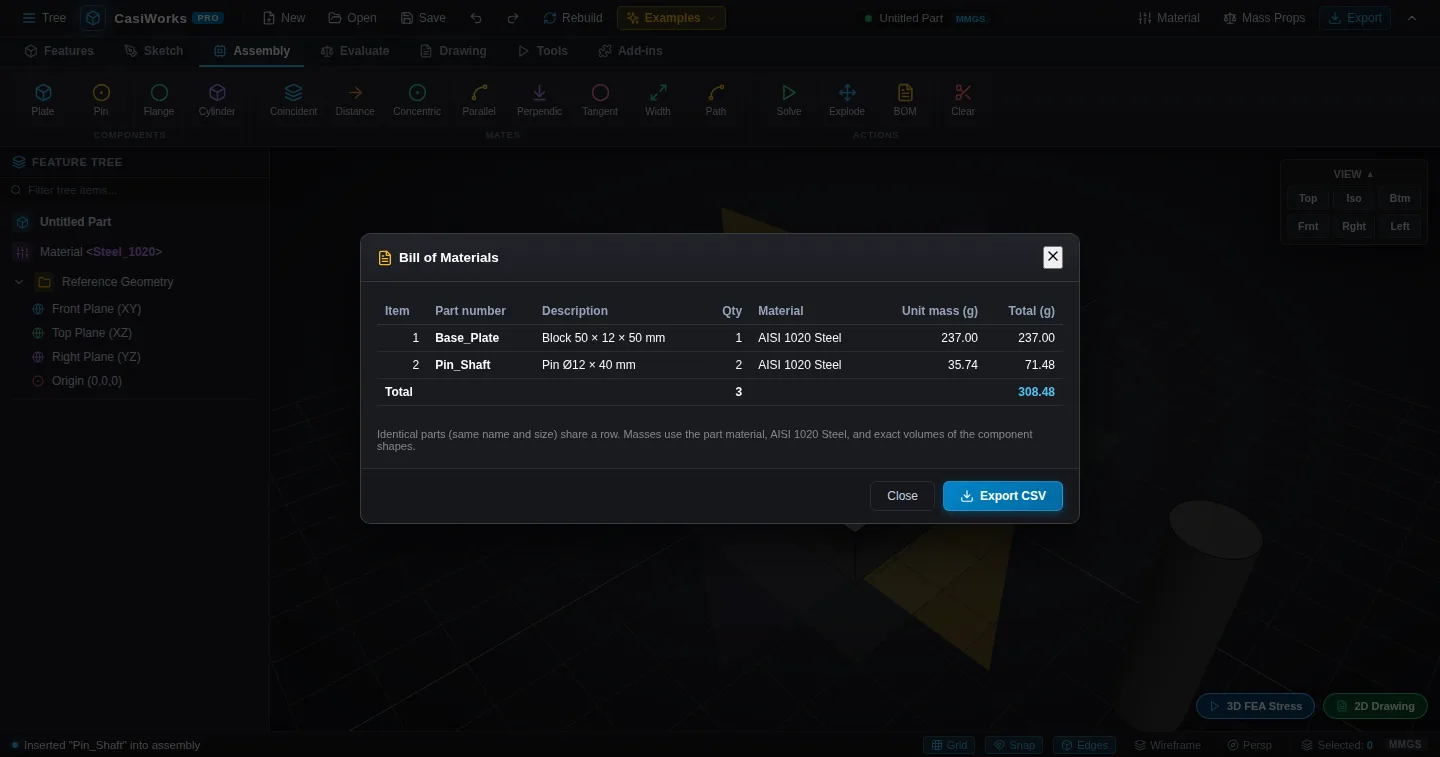
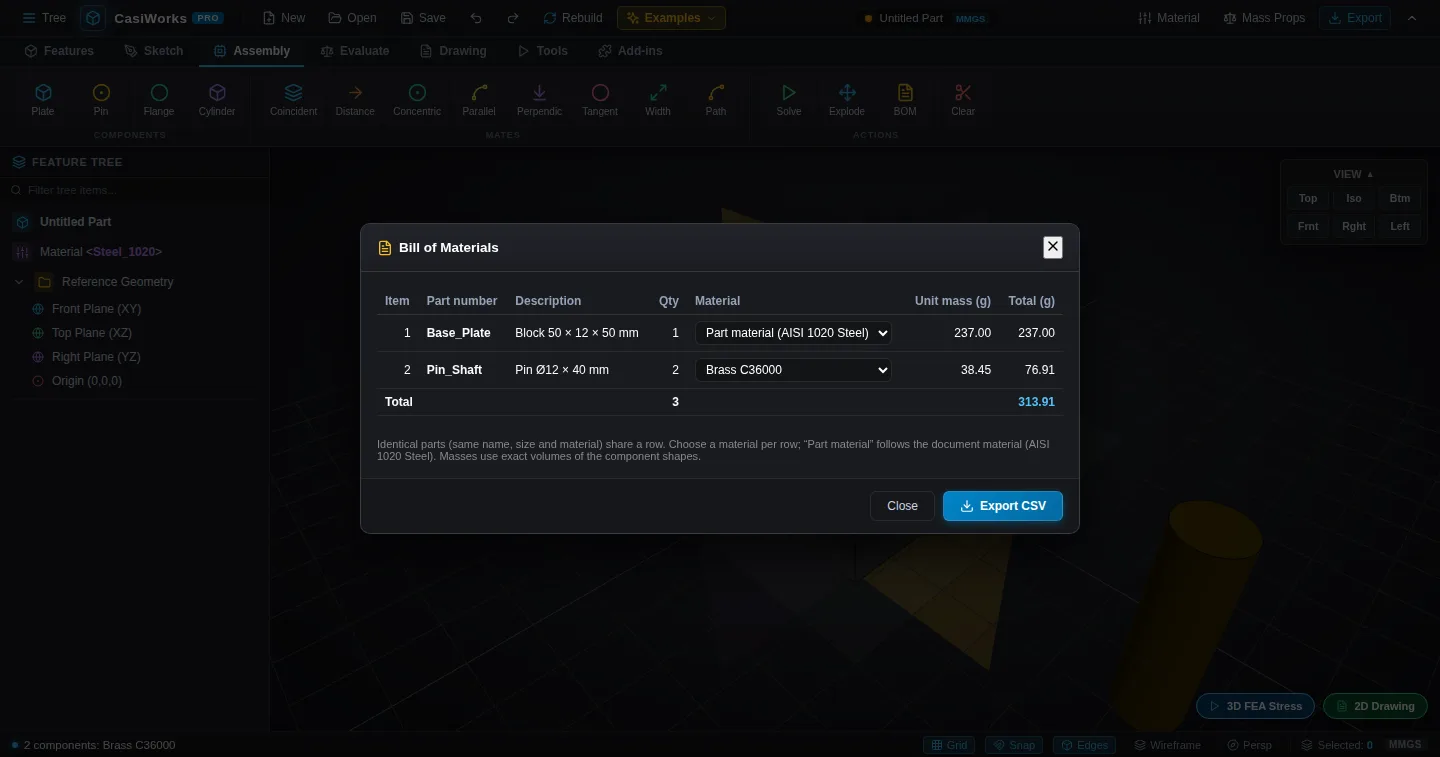
Components can have their own material; the BOM and viewport use it
Before, every assembly component used the one document material, so a
steel plate with brass pins could not be described.

- A component may carry a material key (unset = follows the document
  material). It is saved in the project file and loaded back; unknown
  keys are ignored on load.
- The BOM groups by material too and shows a material picker on each
  row. "Part material (…)" means the document material; picking one sets
  every component in the row. Masses follow.
- The viewport draws each component in its own material's colour.
- New command assembly.setMaterial { components: [ids], material: key |
  null }, validated (unknown ids or materials are refused).

Tests: per-component rows, masses, the document material change leaving
own materials alone, save/load, and back to the part material. The e2e
BOM check picks Brass for the pins in the dialog (38.45 g each) and
checks the CSV. Tutorial chapter 10 and its screenshot updated.

diff --git a/src/store/cadStore.ts b/src/store/cadStore.ts
@@ -8,7 +8,7 @@ import { immer } from 'zustand/middleware/immer';
 import type { Draft } from 'immer';
 import * as THREE from 'three';
 import { generateId } from '../utils/math.ts';
-import { TOOLS, APP_MODES, DEFAULT_SETTINGS, FEATURE_TYPES } from '../utils/constants.ts';
+import { TOOLS, APP_MODES, DEFAULT_SETTINGS, FEATURE_TYPES, MATERIALS } from '../utils/constants.ts';
 import type { AppMode, AppSettings, MateType, ToolId, ViewOrientation } from '../utils/constants.ts';
 import { assemblyManager } from '../assembly/AssemblyManager.ts';
 import type { AssemblyComponent } from '../assembly/AssemblyManager.ts';
@@ -48,6 +48,8 @@ export interface PrimitiveDims {
 export type StoreAssemblyComponent = AssemblyComponent & {
   geometryType?: PrimitiveShape;
   dimensions?: PrimitiveDims;
+  /** Material key (MATERIALS); unset means the document material. */
+  material?: string;
 };
 
 export type AssemblyMate = ReturnType<typeof assemblyManager.addMate>;
@@ -84,6 +86,7 @@ interface SerializedComponent {
   scale: { x: number; y: number; z: number };
   geometryType: PrimitiveShape;
   dimensions: PrimitiveDims;
+  material?: string;
 }
 
 /** Something selected in the viewport or tree. */
@@ -262,6 +265,8 @@ export interface CADActions {
   removeAssemblyMate(mateId: string): void;
   solveAssembly(): void;
   clearAssembly(): void;
+  /** Give components their own material (a MATERIALS key), or null to use the document material again. */
+  setComponentMaterial(componentIds: string[], material: string | null): void;
   setExplodedView(settings: ExplodedViewSettings | null): void;
   setDrawingOptions(options: Partial<DrawingOptions>): void;
 
@@ -870,6 +875,19 @@ export const useCADStore = create<CADStore>()(
         : `Mates not satisfied — they may conflict (largest error: ${(res?.error ?? 0).toFixed(3)})`;
     }),
 
+    setComponentMaterial: (componentIds, material) => set(state => {
+      const ids = new Set(componentIds);
+      const changed = assemblyManager.components.filter(c => ids.has(c.id)) as StoreAssemblyComponent[];
+      if (changed.length === 0) return;
+      for (const c of changed) {
+        if (material) c.material = material; else delete c.material;
+      }
+      state.assemblyComponents = [...assemblyManager.components] as Draft<StoreAssemblyComponent>[];
+      state.isModified = true;
+      const what = changed.length === 1 ? `"${changed[0].name}"` : `${changed.length} components`;
+      state.statusMessage = material ? `${what}: ${MATERIALS[material]?.name ?? material}` : `${what}: part material`;
+    }),
+
     clearAssembly: () => set(state => {
       assemblyManager.components = [];
       assemblyManager.mates = [];
@@ -902,6 +920,7 @@ export const useCADStore = create<CADStore>()(
         scale: { x: comp.scale.x, y: comp.scale.y, z: comp.scale.z },
         geometryType: comp.geometryType || 'box',
         dimensions: comp.dimensions || {},
+        ...(comp.material ? { material: comp.material } : {}),
       }));
 
       const project: ProjectFile = {
@@ -956,6 +975,7 @@ export const useCADStore = create<CADStore>()(
             comp.id = c.id;
             comp.geometryType = shape;
             comp.dimensions = dims;
+            if (typeof c.material === 'string' && c.material in MATERIALS) comp.material = c.material;
             if (c.position) comp.position.set(c.position.x, c.position.y, c.position.z);
             if (c.quaternion) comp.quaternion.set(c.quaternion.x, c.quaternion.y, c.quaternion.z, c.quaternion.w);
             if (c.scale) comp.scale.set(c.scale.x, c.scale.y, c.scale.z);

diff --git a/tests/bom.test.ts b/tests/bom.test.ts
@@ -7,7 +7,7 @@ import { useCADStore } from '../src/store/cadStore.ts';
 import { createCommandRegistry } from '../src/commands/builtinCommands.ts';
 import type { Bom } from '../src/assembly/bom.ts';
 
-const steel = { name: 'AISI 1020 Steel', density: 7900 };
+const steel = 'Steel_1020';
 const near = (a: number, b: number, rel = 1e-9) => assert.ok(Math.abs(a - b) <= rel * Math.max(1, Math.abs(b)), `${a} ≠ ${b}`);
 
 test('BOM: identical parts share a row with their quantity; masses from exact volumes', () => {
@@ -52,5 +52,45 @@ test('BOM command: uses the document material and the components in the store', 
   assert.deepEqual(bom.rows.map(x => x.quantity), [1, 2]);
   near(bom.rows[0].unitMass, 30000 * 1e-9 * 2700);
   assert.throws(() => r.execute('assembly.exportBom'), (e: unknown) => (e as { code?: string }).code === 'NOT_AVAILABLE', 'needs the UI');
+  s().newProject();
+});
+
+test('Component materials: own material per component, grouped apart, saved with the project', () => {
+  const r = createCommandRegistry(useCADStore);
+  const s = () => useCADStore.getState();
+  s().newProject();
+  r.execute('assembly.insertPart', { name: 'Base_Plate', shape: 'box', dims: { width: 50, height: 12, depth: 50 } });
+  const pins = [r.execute('assembly.insertPart', { name: 'Pin_Shaft', shape: 'pin' }), r.execute('assembly.insertPart', { name: 'Pin_Shaft', shape: 'pin' })]
+    .map(x => (x as { componentId: string }).componentId);
+  const code = (fn: () => unknown) => { try { fn(); } catch (e) { return (e as { code?: string }).code; } return null; };
+  assert.equal(code(() => r.execute('assembly.setMaterial', { components: pins, material: 'Unobtainium' })), 'INVALID_ARGUMENT');
+  assert.equal(code(() => r.execute('assembly.setMaterial', { components: ['nope'], material: 'Brass_C36000' })), 'INVALID_ARGUMENT');
+  assert.equal(code(() => r.execute('assembly.setMaterial', { components: [], material: 'Brass_C36000' })), 'INVALID_ARGUMENT');
+
+  // One brass pin: the two pins split into two rows
+  r.execute('assembly.setMaterial', { components: [pins[0]], material: 'Brass_C36000' });
+  let bom = r.execute('assembly.bom') as Bom;
+  assert.deepEqual(bom.rows.map(x => [x.partNumber, x.material, x.quantity, x.inherited]),
+    [['Base_Plate', 'AISI 1020 Steel', 1, true], ['Pin_Shaft', 'Brass C36000', 1, false], ['Pin_Shaft', 'AISI 1020 Steel', 1, true]]);
+  near(bom.rows[1].unitMass, Math.PI * 36 * 40 * 1e-9 * 8500);
+  assert.match(s().statusMessage, /"Pin_Shaft": Brass C36000/);
+
+  // Both brass: one row again. The document material change leaves them brass.
+  r.execute('assembly.setMaterial', { components: pins, material: 'Brass_C36000' });
+  r.execute('model.setMaterial', { key: 'Aluminum_6061' });
+  bom = r.execute('assembly.bom') as Bom;
+  assert.deepEqual(bom.rows.map(x => [x.material, x.quantity]), [['Aluminum 6061-T6', 1], ['Brass C36000', 2]]);
+
+  // Saved and loaded with the project
+  const saved = s().saveProject();
+  s().newProject();
+  s().loadProject(saved);
+  bom = r.execute('assembly.bom') as Bom;
+  assert.deepEqual(bom.rows.map(x => [x.material, x.quantity]), [['Aluminum 6061-T6', 1], ['Brass C36000', 2]], 'after reload');
+
+  // null goes back to the part material
+  r.execute('assembly.setMaterial', { components: s().assemblyComponents.map(c => c.id), material: null });
+  bom = r.execute('assembly.bom') as Bom;
+  assert.ok(bom.rows.every(x => x.inherited && x.material === 'Aluminum 6061-T6'));
   s().newProject();
 });

diff --git a/src/assembly/bom.ts b/src/assembly/bom.ts
@@ -1,15 +1,18 @@
 // CasiWorks Pro - Bill of materials for the assembly
 //
-// One row per distinct part (same name, shape and size), with its quantity.
-// Volumes are exact for the primitive shapes (not the faceted display mesh);
-// mass uses the document's material, which every component shares today.
+// One row per distinct part (same name, shape, size and material), with its
+// quantity. Volumes are exact for the primitive shapes (not the faceted display
+// mesh); mass uses each component's material, or the document's when it has none.
 import type { PrimitiveDims, PrimitiveShape } from '../store/cadStore.ts';
+import { MATERIALS } from '../utils/constants.ts';
 
 export interface BomComponent {
   id: string;
   name: string;
   geometryType?: PrimitiveShape;
   dimensions?: PrimitiveDims;
+  /** Material key; unset means the document material. */
+  material?: string;
 }
 
 export interface BomRow {
@@ -17,7 +20,12 @@ export interface BomRow {
   partNumber: string;
   description: string;
   quantity: number;
+  /** Material name, as shown. */
   material: string;
+  /** Material key (MATERIALS). */
+  materialKey: string;
+  /** True when it is the document material (the component has none of its own). */
+  inherited: boolean;
   /** mm³ per part. */
   unitVolume: number;
   /** kg per part. */
@@ -32,6 +40,7 @@ export interface Bom {
   totalQuantity: number;
   /** kg */
   totalMass: number;
+  /** Document material name (what components without their own use). */
   material: string;
 }
 
@@ -55,14 +64,19 @@ function shapeSize(shape: PrimitiveShape, dims: PrimitiveDims): { description: s
   }
 }
 
+const materialOf = (key: string) => MATERIALS[key] ?? MATERIALS.Steel_1020;
+
 /** The bill of materials: parts in the order they were first inserted. */
-export function buildBom(components: BomComponent[], material: { name: string; density: number }): Bom {
+export function buildBom(components: BomComponent[], documentMaterial: string): Bom {
   const rows = new Map<string, BomRow>();
   for (const c of components) {
     const shape = c.geometryType ?? 'box';
     const dims = c.dimensions ?? {};
     const { description, volume } = shapeSize(shape, dims);
-    const key = `${c.name}\u0000${description}`;
+    const own = c.material && c.material in MATERIALS ? c.material : null;
+    const materialKey = own ?? (documentMaterial in MATERIALS ? documentMaterial : 'Steel_1020');
+    const material = materialOf(materialKey);
+    const key = `${c.name}\u0000${description}\u0000${materialKey}\u0000${own ? 'own' : 'doc'}`;
     const row = rows.get(key);
     if (row) {
       row.quantity += 1;
@@ -71,7 +85,7 @@ export function buildBom(components: BomComponent[], material: { name: string; d
     }
     const unitMass = volume * 1e-9 * material.density;
     rows.set(key, {
-      item: rows.size + 1, partNumber: c.name, description, quantity: 1, material: material.name,
+      item: rows.size + 1, partNumber: c.name, description, quantity: 1, material: material.name, materialKey, inherited: !own,
       unitVolume: volume, unitMass, totalMass: unitMass, componentIds: [c.id],
     });
   }
@@ -81,7 +95,7 @@ export function buildBom(components: BomComponent[], material: { name: string; d
     rows: list,
     totalQuantity: list.reduce((n, r) => n + r.quantity, 0),
     totalMass: list.reduce((m, r) => m + r.totalMass, 0),
-    material: material.name,
+    material: materialOf(documentMaterial).name,
   };
 }
 

diff --git a/docs/tutorial/index.html b/docs/tutorial/index.html
@@ -619,9 +619,9 @@ npm run dev</pre></div>
   <div class="callout tip"><span class="ic">💡</span><div><b class="label">Display only</b><p>The exploded view only changes what you see. Components keep their real positions and mates, so saving, solving and exporting all use the assembled positions. Each mated part moves away from its partner; parts later in the list move further.</p></div></div>
   <div class="callout tip"><span class="ic">💡</span><div><b class="label">Tip</b><p>Add the fewest mates that fix the position. Extra mates that fight each other leave a residual above zero after <b>Solve</b>, and that number tells you something is over-constrained. <b>Clear</b> removes all components and mates.</p></div></div>
   <h3>Bill of materials</h3>
-  <p>Click <b>BOM</b> in the Actions group to list the parts in the assembly. Identical parts (same name and same size) share one row with their quantity. Each row gives a description of the shape and its size, the material, and the mass of one part and of all of them. <b>Export CSV</b> saves the table for a spreadsheet or a purchasing system.</p>
-  <figure class="shot"><img loading="lazy" src="img/25b-bom.webp" alt="Bill of materials with a base plate and two pins"><figcaption>Example 10.1 with a second pin: the two pins share row 2, quantity 2.</figcaption></figure>
-  <div class="callout tip"><span class="ic">💡</span><div><b class="label">Masses</b><p>Masses use exact volumes of the component shapes and the part material chosen with <b>Material</b>. All components share that one material for now. From the console, <code>casiworks.commands.execute('assembly.bom')</code> returns the same table as data.</p></div></div>
+  <p>Click <b>BOM</b> in the Actions group to list the parts in the assembly. Identical parts (same name, size and material) share one row with their quantity. Each row gives a description of the shape and its size, the material, and the mass of one part and of all of them. Use the <b>Material</b> picker in a row to give those parts their own material. The parts change colour in the viewport, and the masses update. <b>Export CSV</b> saves the table for a spreadsheet or a purchasing system.</p>
+  <figure class="shot"><img loading="lazy" src="img/25b-bom.webp" alt="Bill of materials with a base plate and two pins"><figcaption>Example 10.1 with a second pin, both made brass: the pins share row 2, quantity 2.</figcaption></figure>
+  <div class="callout tip"><span class="ic">💡</span><div><b class="label">Masses</b><p>Masses use exact volumes of the component shapes. A component without its own material uses the part material chosen with <b>Material</b> in the top bar. Its row says <i>Part material</i>. Each component's material is saved with the project. From the console, <code>casiworks.commands.execute('assembly.bom')</code> returns the same table as data, and <code>assembly.setMaterial</code> sets materials: <code>{ components: [ids], material: 'Brass_C36000' }</code>.</p></div></div>
   <div class="exercise"><b>Exercise 10.</b> Insert a Flange and a Cylinder rod. Make them concentric, then add a Distance mate so the rod sits 15 mm above the flange.<label><input type="checkbox" data-done="ch10"> I've done this</label></div>
 </section>
 

diff --git a/src/commands/builtinCommands.ts b/src/commands/builtinCommands.ts
@@ -6,7 +6,6 @@ import { drawingFile } from '../drawings/drawingSheet.ts';
 import type { DrawingFormat } from '../drawings/drawingSheet.ts';
 import { downloadBlob } from '../utils/download.ts';
 import { bomCSV, buildBom } from '../assembly/bom.ts';
-import { materialLibrary } from '../kernel/MaterialLibrary.ts';
 import { FEATURE_TYPES, MATERIALS, TOOLS } from '../utils/constants.ts';
 import type { MateType, ToolId, ViewOrientation } from '../utils/constants.ts';
 import type { FeatureData, SketchEntity, SketchPlane } from '../types/cad.ts';
@@ -386,7 +385,21 @@ export const BUILTIN_COMMANDS: Array<Def<never>> = [
   {
     id: 'assembly.bom', label: 'Bill of materials (data)', category: 'Assembly', record: false,
     description: 'Returns { rows: [{ item, partNumber, description, quantity, material, unitVolume (mm³), unitMass, totalMass (kg), componentIds }], totalQuantity, totalMass, material }',
-    run: ({ state }) => buildBom(state().assemblyComponents, materialLibrary.getMaterial(state().activeMaterial)),
+    run: ({ state }) => buildBom(state().assemblyComponents, state().activeMaterial),
+  },
+  {
+    id: 'assembly.setMaterial', label: 'Component material', category: 'Assembly',
+    description: "args: { components: string[] (component ids), material: key such as 'Brass_C36000', or null for the part material }",
+    run: ({ state }, args: { components?: string[]; material?: string | null }) => {
+      const ids = args?.components;
+      if (!Array.isArray(ids) || ids.length === 0 || !ids.every(id => typeof id === 'string')) throw new CommandError('INVALID_ARGUMENT', 'components must be a list of component ids');
+      const known = new Set(state().assemblyComponents.map(c => c.id));
+      const missing = ids.filter(id => !known.has(id));
+      if (missing.length) throw new CommandError('INVALID_ARGUMENT', `No component with id ${missing.map(m => JSON.stringify(m)).join(', ')}`);
+      const material = args.material ?? null;
+      if (material !== null && !(material in MATERIALS)) throw new CommandError('INVALID_ARGUMENT', `Unknown material ${JSON.stringify(material)}; one of ${Object.keys(MATERIALS).join(', ')}`);
+      state().setComponentMaterial(ids, material);
+    },
   },
   { id: 'assembly.billOfMaterials', label: 'Bill of materials…', category: 'Assembly', requiresUI: true, record: false, run: ({ ui }) => ui().openDialog('bom') },
   {
@@ -395,7 +408,7 @@ export const BUILTIN_COMMANDS: Array<Def<never>> = [
       const s = state();
       if (s.assemblyComponents.length === 0) throw new CommandError('NOT_AVAILABLE', 'Insert components first: the assembly is empty');
       const filename = `${(s.documentName || 'Assembly').replace(/\s+/g, '_')}_BOM.csv`;
-      downloadBlob(bomCSV(buildBom(s.assemblyComponents, materialLibrary.getMaterial(s.activeMaterial))), filename, 'text/csv;charset=utf-8');
+      downloadBlob(bomCSV(buildBom(s.assemblyComponents, s.activeMaterial)), filename, 'text/csv;charset=utf-8');
       s.setStatus(`Bill of materials exported: ${filename}`);
       return { filename };
     },

diff --git a/src/components/dialogs/BomDialog.tsx b/src/components/dialogs/BomDialog.tsx
@@ -2,7 +2,7 @@
 import { useMemo } from 'react';
 import { X, FileText, Download } from 'lucide-react';
 import { useCADStore } from '../../store/cadStore.ts';
-import { materialLibrary } from '../../kernel/MaterialLibrary.ts';
+import { MATERIALS } from '../../utils/constants.ts';
 import { buildBom } from '../../assembly/bom.ts';
 import { runCommand } from '../../commands/index.ts';
 
@@ -16,7 +16,7 @@ const grams = (kg: number) => (kg * 1000).toLocaleString(undefined, { minimumFra
 export default function BomDialog({ isOpen, onClose }: DialogProps) {
   const components = useCADStore(s => s.assemblyComponents);
   const activeMaterial = useCADStore(s => s.activeMaterial);
-  const bom = useMemo(() => buildBom(components, materialLibrary.getMaterial(activeMaterial)), [components, activeMaterial]);
+  const bom = useMemo(() => buildBom(components, activeMaterial), [components, activeMaterial]);
 
   if (!isOpen) return null;
 
@@ -56,7 +56,18 @@ export default function BomDialog({ isOpen, onClose }: DialogProps) {
                         <td style={{ ...td, fontWeight: 600 }}>{r.partNumber}</td>
                         <td style={td}>{r.description}</td>
                         <td style={num}>{r.quantity}</td>
-                        <td style={td}>{r.material}</td>
+                        <td style={td}>
+                          <select
+                            className="bom-material property-select"
+                            value={r.inherited ? '' : r.materialKey}
+                            onChange={(e) => runCommand('assembly.setMaterial', { components: r.componentIds, material: e.target.value || null })}
+                            aria-label={`Material of ${r.partNumber}`}
+                            style={{ width: 'auto', padding: '3px 6px', fontSize: 12 }}
+                          >
+                            <option value="">Part material ({bom.material})</option>
+                            {Object.entries(MATERIALS).map(([key, m]) => <option key={key} value={key}>{m.name}</option>)}
+                          </select>
+                        </td>
                         <td style={num}>{grams(r.unitMass)}</td>
                         <td style={num}>{grams(r.totalMass)}</td>
                       </tr>
@@ -73,7 +84,7 @@ export default function BomDialog({ isOpen, onClose }: DialogProps) {
                 </table>
               </div>
               <p style={{ fontSize: 11, color: '#888', margin: '10px 0 0' }}>
-                Identical parts (same name and size) share a row. Masses use the part material, {bom.material}, and exact volumes of the component shapes.
+                Identical parts (same name, size and material) share a row. Choose a material per row; “Part material” follows the document material ({bom.material}). Masses use exact volumes of the component shapes.
               </p>
             </>
           )}

diff --git a/scripts/e2e.ts b/scripts/e2e.ts
@@ -390,11 +390,21 @@ const CHECKS: Check[] = [
       const total = await p.eval<string>(`document.querySelector('.bom-total').textContent`);
       assert(rows.length === 2 && rows[0][1] === 'Base_Plate' && rows[1][1] === 'Pin_Shaft' && rows[1][3] === '2', `rows ${JSON.stringify(rows)}`);
       assert(rows[0][5] === '237.00', `plate mass ${rows[0][5]} g (50 × 12 × 50 mm of steel = 237.00 g)`);
+      // Brass pins: the row's material picker sets both pins
+      await p.eval(`(() => {
+        const sel = document.querySelectorAll('.bom-material')[1];
+        Object.getOwnPropertyDescriptor(HTMLSelectElement.prototype, 'value').set.call(sel, 'Brass_C36000');
+        sel.dispatchEvent(new Event('change', { bubbles: true }));
+      })()`);
+      await sleep(300);
+      const brass = await p.eval<string[]>(`[...document.querySelectorAll('.bom-table tbody tr')][1].querySelectorAll('td')[5].textContent`);
+      const picked = await p.eval<string>(`document.querySelectorAll('.bom-material')[1].value`);
+      assert(picked === 'Brass_C36000' && String(brass) === '38.45', `brass pin: ${picked}, ${brass} g (Ø12 × 40 mm × 8500 kg/m³ = 38.45 g)`);
       await p.screenshot('08b-bom');
       await p.eval(CAPTURE_DOWNLOADS);
       await p.click('Export CSV', 400);
       const csv = await p.eval<string>(`window.__blobs.at(-1).text()`);
-      assert(csv.startsWith('Item,Part number,Description,Qty') && csv.includes('2,Pin_Shaft,Pin Ø12 × 40 mm,2,'), `CSV: ${csv.slice(0, 200)}`);
+      assert(csv.startsWith('Item,Part number,Description,Qty') && csv.includes('2,Pin_Shaft,Pin Ø12 × 40 mm,2,Brass C36000,38.45,76.91'), `CSV: ${csv.slice(0, 300)}`);
       await p.click('Close', 300);
       await p.eval(`window.casiworks.commands.execute('file.loadExample', { id: 'l_bracket' })`);
       await p.click('Features', 1500);

diff --git a/scripts/tutorial-shots.ts b/scripts/tutorial-shots.ts
@@ -342,6 +342,12 @@ const SHOTS: Shot[] = [
       await run(p, 'assembly.collapse');
       await p.click('Insert Cylindrical Alignment Pin', 600);
       await p.click('Bill of Materials: parts, quantities and masses, with CSV export', 600);
+      await p.eval(`(() => {
+        const sel = document.querySelectorAll('.bom-material')[1];
+        Object.getOwnPropertyDescriptor(HTMLSelectElement.prototype, 'value').set.call(sel, 'Brass_C36000');
+        sel.dispatchEvent(new Event('change', { bubbles: true }));
+      })()`);
+      await sleep(400);
       await p.screenshot('25b-bom');
       await p.click('Close', 300);
     },

diff --git a/src/viewport/Viewport3D.tsx b/src/viewport/Viewport3D.tsx
@@ -708,7 +708,7 @@ export default function Viewport3D() {
               shadedMode={shadedMode}
               wireframeMode={wireframeMode}
               edgeDisplay={edgeDisplay}
-              materialKey={activeMaterial}
+              materialKey={comp.material ?? activeMaterial}
             />
           </group>
         ))}

diff --git a/ROADMAP.md b/ROADMAP.md
@@ -118,7 +118,7 @@ Items elsewhere that say they need exact geometry (3.9, 5.1, 6.2, 6.3) are limit
 - [ ] **4.2** Insert real part documents as components (with references, not copies)
 - [ ] **4.3** Mates picked on real faces/edges; under/over-defined feedback
 - [ ] **4.4** Interference detection
-- [x] **4.5** Bill of materials (BOM button on the Assembly tab: identical parts grouped with quantities, exact masses in the document material, CSV export; `assembly.bom` returns it as data)
+- [x] **4.5** Bill of materials (BOM button on the Assembly tab: identical parts grouped with quantities, exact masses, a material per component (picked in the BOM, shown in the viewport, saved with the project; unset follows the document material), CSV export; `assembly.bom` / `assembly.setMaterial` from scripts)
 - [ ] **4.6** Exploded views with steps; motion along mates
 
 ## Phase 5 — Drawings
